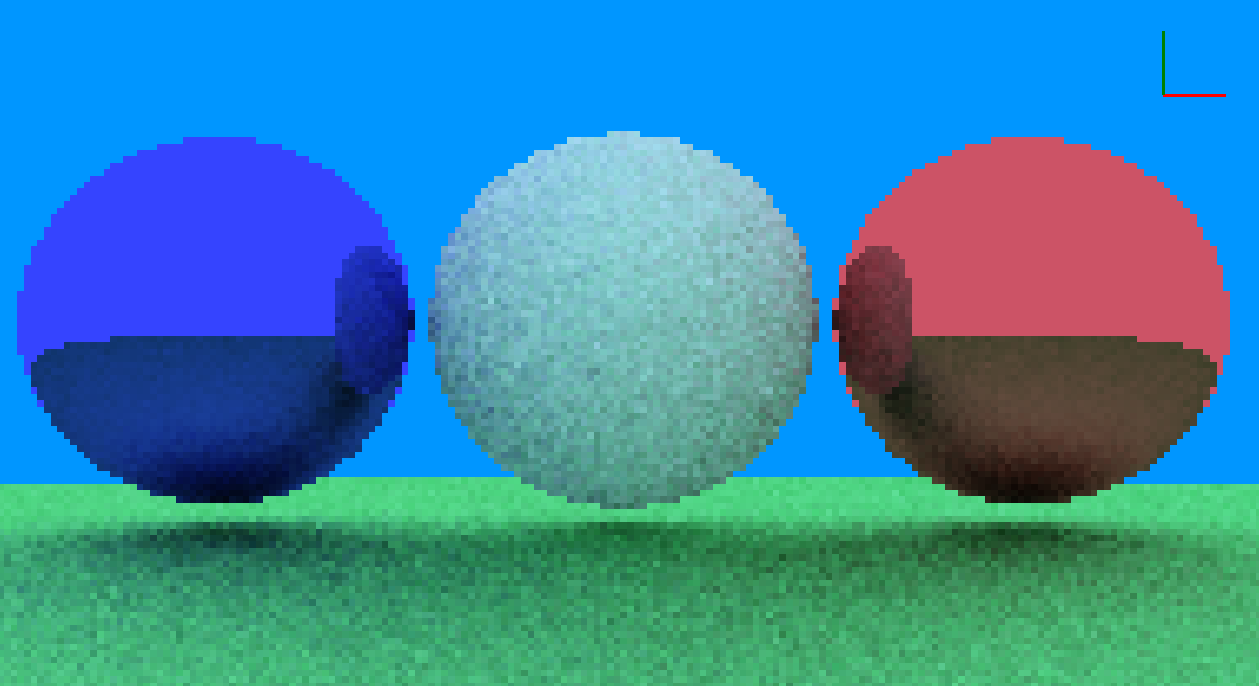
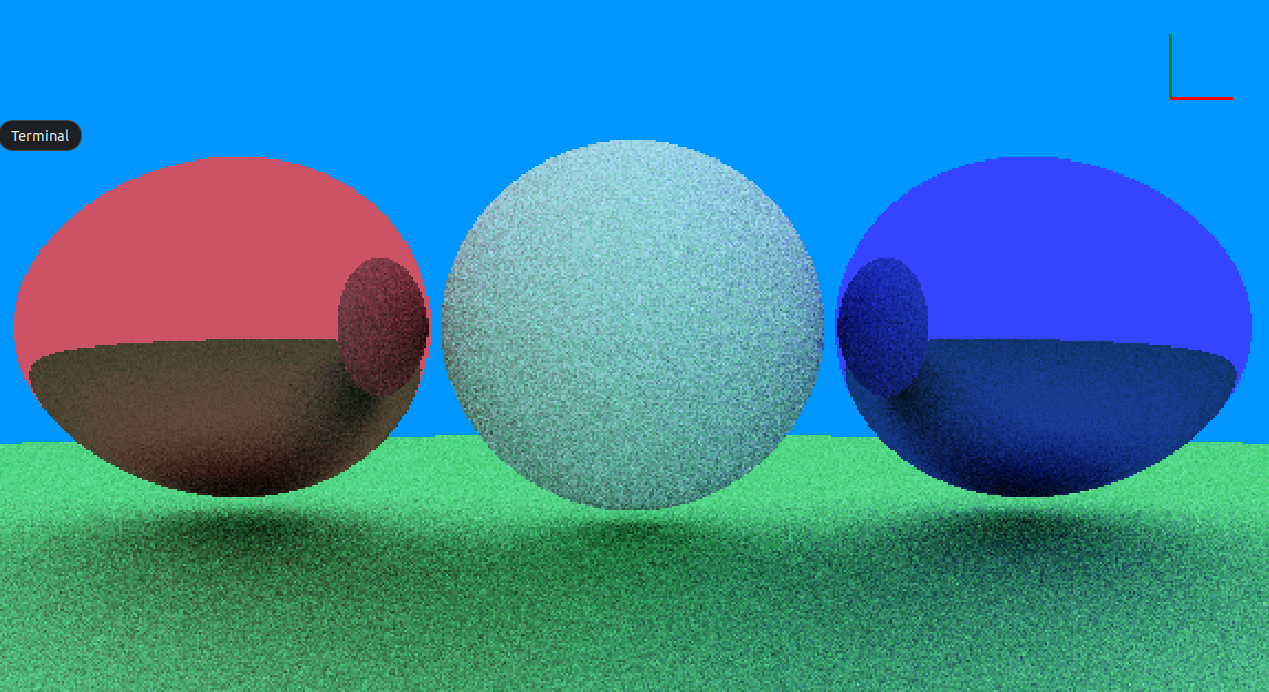
scenes

diff --git a/src/Window.cs b/src/Window.cs
@@ -22,7 +22,7 @@ public class Window : Form {
         Bitmap bitmap = new Bitmap(imagePath);
         this.Icon = Icon.FromHandle(bitmap.GetHicon());
 
-        this.viewport = new vec2(128,72);
+        this.viewport = new vec2(192,108);
         this.aspectratio = new vec2(this.ClientSize.Width, this.ClientSize.Height) / this.viewport;
 
         this.Paint += (sender, e) => repaint(e.Graphics);
@@ -75,7 +75,7 @@ public class Window : Form {
                 Color thecolor = Color.FromArgb(255,(int)(this.lastp[index].x/this.frames),(int)(this.lastp[index].y/this.frames),(int)(this.lastp[index].z/this.frames));
 
                 if(p.color != Color.Black)
-                    this.print(g, p.color, invertId * this.aspectratio - this.aspectratio, this.aspectratio);
+                    this.print(g, thecolor, invertId * this.aspectratio - this.aspectratio, this.aspectratio);
 
                 /*App.window.print(g, Color.FromArgb(255, 50, 0, 150), 
                     App.camara.project(App.camara.ray[index].direction+App.camara.position), 
